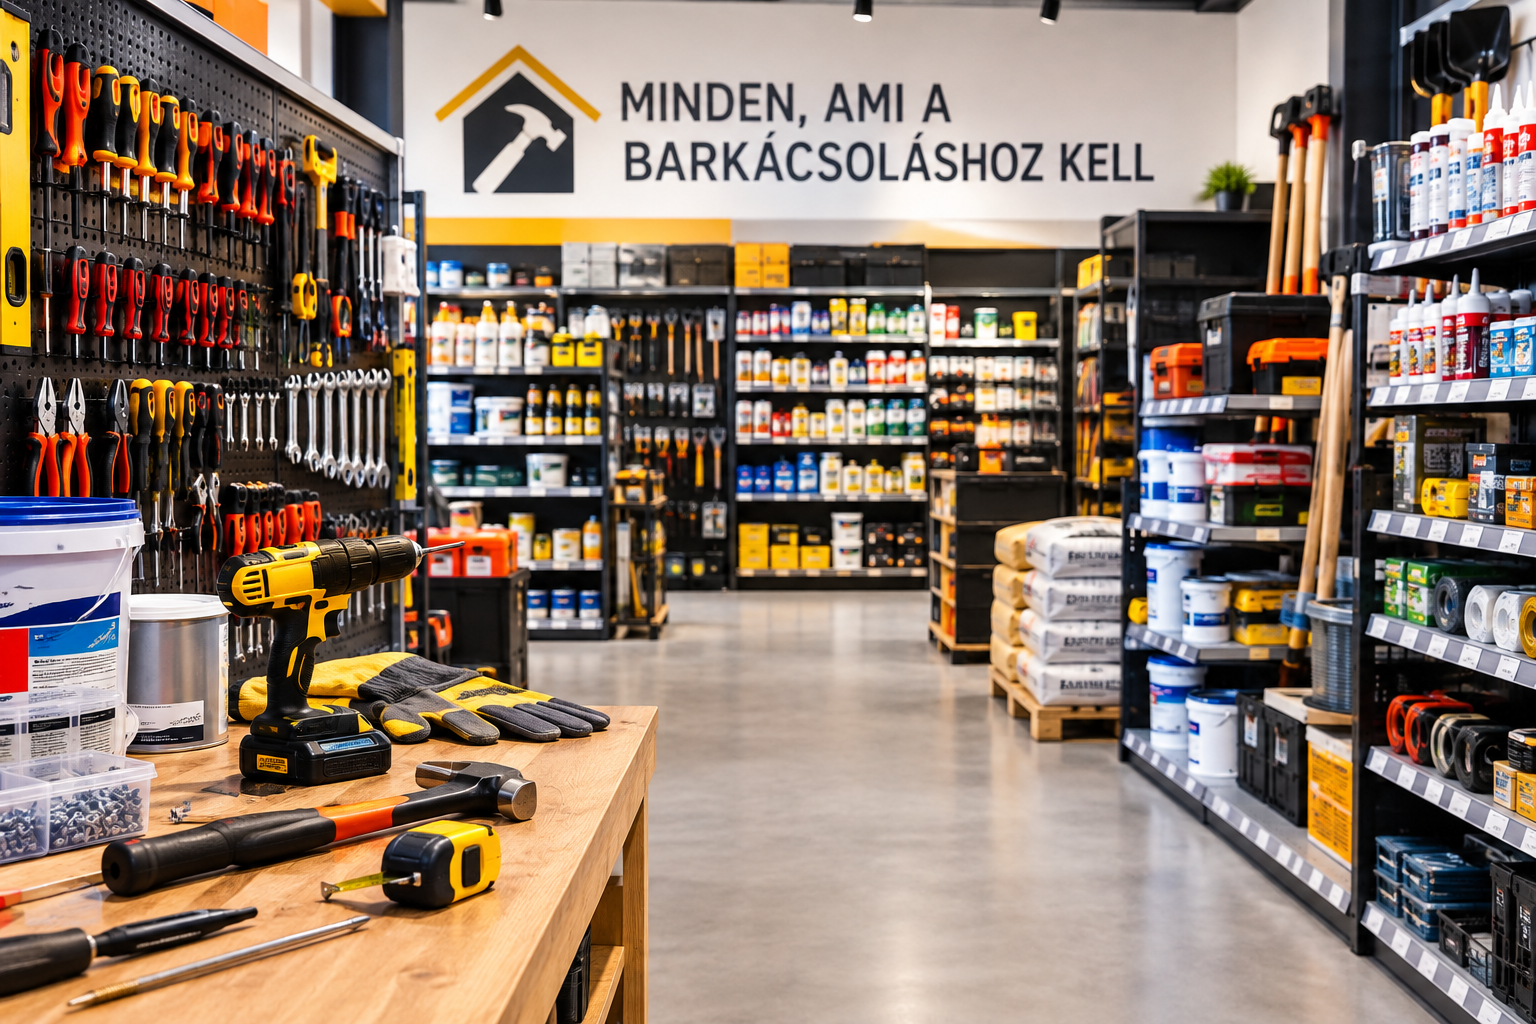
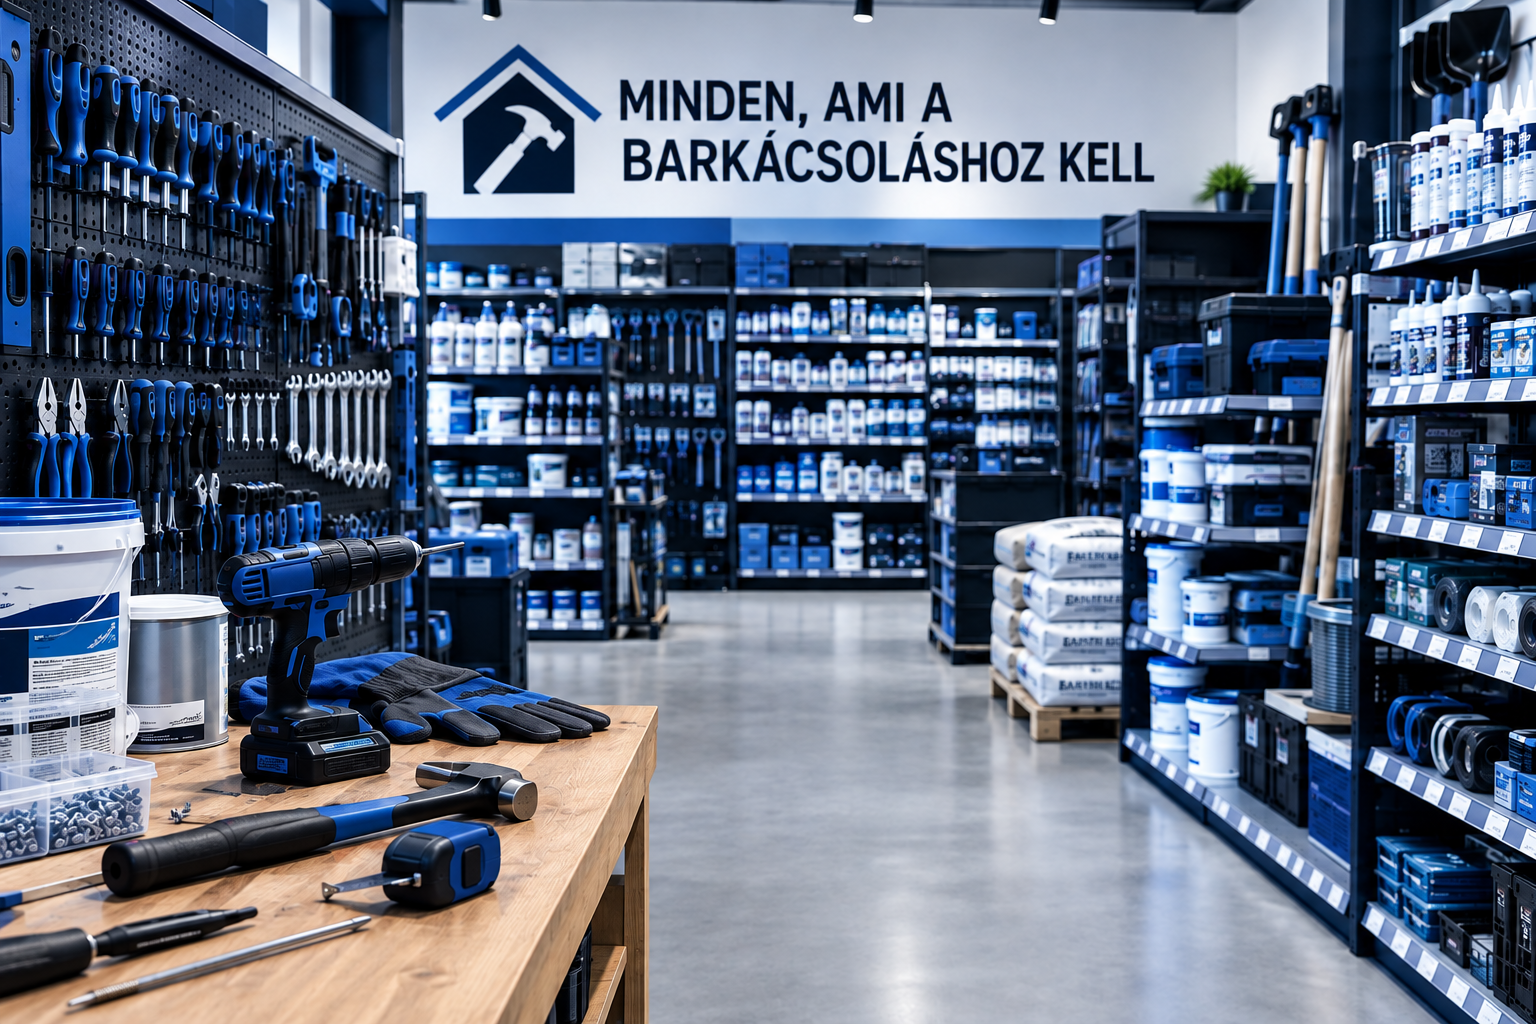
1.2
termekek oldalon valami szar a js kerdezd meg Vencelt

diff --git a/Web/Vorai mini project 09.21/termekek.html b/Web/Vorai mini project 09.21/termekek.html
@@ -4,25 +4,121 @@
   <meta charset="utf-8" />
   <meta name="viewport" content="width=device-width,initial-scale=1" />
   <link rel="stylesheet" href="style.css">
-  <title>Accordion</title>
+  <title>termekek</title>
  
 </head>
 <body>
-  <h2>Accordion</h2>
+
+<nav>
+        <button class="menu-btn" onclick="toggleMenu()">Menu</button>
+
+        <div class="menu" id="menu" class="story-script-regular">
+            <a href="index.html">Vissza</a>
+        </div>
+    </nav>
+
+  <h2>Termekek</h2>
   <div class="acc" id="acc">
     <div class="item">
-      <div class="head">aksis furo <span>+</span></div>
+      <div class="head">Aksis furo <span>+</span></div>
       <div class="body"><img src="aksis furo.jpg" alt=""></div>
     </div>
     <div class="item">
-      <div class="head">vizmertek<span>+</span></div>
+      <div class="head">Vizmertek<span>+</span></div>
       <div class="body"><img src="cizmertek.jpg" alt="">.</div>
     </div>
     <div class="item">
-      <div class="head">3. kérdés <span>+</span></div>
-      <div class="body">Harmadik válasz.</div>
+      <div class="head">Csavarhuzo <span>+</span></div>
+      <div class="body"><img src="csavarhuzo keszlet.jpg" alt=""></div>
     </div>
   </div>
+  <div class="acc" id="acc">
+    <div class="item">
+      <div class="head">Csiszolopapir <span>+</span></div>
+      <div class="body"><img src="csiszolopapir.jpg" alt="">.</div>
+    </div>
+    <div class="acc" id="acc">
+    <div class="item">
+      <div class="head">Ecset keszlet <span>+</span></div>
+      <div class="body"><img src="ecstkeszlet.jpg" alt=""></div>
+    </div>
+    <div class="acc" id="acc">
+    <div class="item">
+      <div class="head">Festekek <span>+</span></div>
+      <div class="body"><img src="festekek.jpg" alt=""></div>
+    </div>
+    <div class="acc" id="acc">
+    <div class="item">
+      <div class="head">Festohenger <span>+</span></div>
+      <div class="body"><img src="festohenger.jpg" alt=""></div>
+    </div>
+    <div class="acc" id="acc">
+    <div class="item">
+      <div class="head">Fogo keszlet <span>+</span></div>
+      <div class="body"><img src="fogo keszlet.jpg" alt=""></div>
+    </div>
+    <div class="acc" id="acc">
+    <div class="item">
+      <div class="head">Furesz <span>+</span></div>
+      <div class="body"><img src="furesz.jpg" alt=""></div>
+    </div>
+    <div class="acc" id="acc">
+    <div class="item">
+      <div class="head">Hosszabito <span>+</span></div>
+      <div class="body"><img src="hosszabitio.jpg" alt=""></div>
+    </div>
+    <div class="acc" id="acc">
+    <div class="item">
+      <div class="head">Kalapacs <span>+</span></div>
+      <div class="body"><img src="kalapacs.jpg" alt=""></div>
+    </div>
+    <div class="acc" id="acc">
+    <div class="item">
+      <div class="head">Meroszalag <span>+</span></div>
+      <div class="body"><img src="meroszalag.jpg" alt=""></div>
+    </div>
+    <div class="acc" id="acc">
+    <div class="item">
+      <div class="head">Munkavedelmi kesztu <span>+</span></div>
+      <div class="body"><img src="munkavedelmi kesztyu.jpg" alt=""></div>
+    </div>
+    <div class="acc" id="acc">
+    <div class="item">
+      <div class="head">Pillanat ragaszto <span>+</span></div>
+      <div class="body"><img src="pillanatragaszto.jpg" alt=""></div>
+    </div>
+    <div class="acc" id="acc">
+    <div class="item">
+      <div class="head">Szerszamoslada <span>+</span></div>
+      <div class="body"><img src="szerszamoslada.jpg" alt=""></div>
+    </div>
+    <div class="acc" id="acc">
+    <div class="item">
+      <div class="head">Szigeteloszallag <span>+</span></div>
+      <div class="body"><img src="szigeteloszallag.jpg" alt=""></div>
+    </div>
+    <div class="acc" id="acc">
+    <div class="item">
+      <div class="head">Szilikon <span>+</span></div>
+      <div class="body"><img src="szilikon.jpg" alt=""></div>
+    </div>
+    <div class="acc" id="acc">
+    <div class="item">
+      <div class="head">Tiplik <span>+</span></div>
+      <div class="body"><img src="tiplik.jpg" alt=""></div>
+    </div>
+    <div class="acc" id="acc">
+    <div class="item">
+      <div class="head">Vedoszemuveg <span>+</span></div>
+      <div class="body"><img src="vedoszemueg.jpg" alt=""></div>
+    </div>
+    <div class="acc" id="acc">
+    <div class="item">
+      <div class="head">Villaskulcs <span>+</span></div>
+      <div class="body"><img src="villacskulcs keszlet.jpg" alt=""></div>
+    </div>
+  
+
 
   <script>
     document.getElementById("acc").addEventListener("click", (e) => {
@@ -35,5 +131,11 @@
       item.classList.toggle("open");
     });
   </script>
+
+  <script>
+    function toggleMenu() {
+        document.getElementById("menu").classList.toggle("show");
+    }
+</script>
 </body>
 </html>

diff --git a/Web/Vorai mini project 09.21/style.css b/Web/Vorai mini project 09.21/style.css
@@ -15,7 +15,7 @@ body {
 }
 
 h1 {
-    color: #ff8c00;
+    color: #00e1ff;
     font-size: 4rem;
     padding-top: 70px;
     margin-bottom: 10px;
@@ -32,7 +32,7 @@ h2 {
 }
 
 h3 {
-    color: #ffb347;
+    color: #00e1ff;
     font-size: 1.15rem;
     font-weight: normal;
     margin-bottom: 35px;
@@ -44,7 +44,7 @@ p {
     margin: 0 auto 45px;
     padding: 30px;
     background: #fff;
-    border-left: 6px solid #ff8c00;
+    border-left: 6px solid #00e1ff;
     border-radius: 8px;
     color: #444;
     font-size: 1.05rem;
@@ -56,7 +56,7 @@ body > h2:nth-of-type(2) {
     max-width: 900px;
     margin: 0 auto 20px;
     text-align: left;
-    color: #ff8c00;
+    color: #00e1ff;
 }
 
 ul {
@@ -77,19 +77,19 @@ li {
     font-size: 1rem;
     text-align: left;
     box-shadow: 0 8px 20px rgba(0, 0, 0, 0.2);
-    border-bottom: 4px solid #ff8c00;
+    border-bottom: 4px solid #00e1ff;
     transition: 0.25s ease;
 }
 
 li:hover {
     transform: translateY(-6px);
     box-shadow: 0 14px 30px rgba(0, 0, 0, 0.3);
-    border-bottom-color: #ffb347;
+    border-bottom-color: #00e1ff;
 }
 
 body > h2:nth-of-type(3) {
     margin-top: 20px;
-    color: #ff8c00;
+    color: #00e1ff;
 }
 
 body > h2:nth-of-type(4) {
@@ -104,7 +104,7 @@ body > h3:last-child {
 
 img{
     width: 60%;
-    border-radius: 10px;
+    border-radius: 20px;
 }
 
 @media (max-width: 700px) {
@@ -145,5 +145,68 @@ img{
     .head { padding: 14px; cursor: pointer; background: #fafafa; display:flex; justify-content:space-between; }
     .body { padding: 14px; display: none; }
     .item.open .body { display: block; }
+
+    .story-script-regular {
+
+            font-family: "Story Script", sans-serif;
+            font-weight: 400;
+            font-style: normal;    
+
+        }
+
+        nav {
+
+            background-color: #0b6470;
+            padding: 5px;
+            border-radius: 15px;
+            width: 5%;
+    
+
+        }
+
+        .menu-btn {
+
+            background: #02162d;
+            color: #f9f9fdda;
+            border: none;
+            padding: 10px 16px;
+            font-size: 16px;
+            cursor:pointer;
+            border-radius: 20px;
+            position: relative;
+            
+    
+
+        }
+
+        .menu {
+
+            display: none;
+            margin-top: 10px;
+
+        }
+
+        .menu a {
+
+            display: block;
+            background-color: #02162d;
+            color: rgb(211, 218, 240);
+            text-decoration: none;
+            padding: 10px;
+            margin-bottom: 4px;
+            border-radius: 20px;
+
+        }
+
+        .menu a:hover {
+
+            background-color: #2a3436;
+
+        }
+        .menu.show {
+
+            display: block;
+
+        }
 
 

diff --git a/Web/Vorai mini project 09.21/index.html b/Web/Vorai mini project 09.21/index.html
@@ -3,10 +3,18 @@
 <head>
     <meta charset="UTF-8">
     <meta name="viewport" content="width=device-width, initial-scale=1.0">
-    <title>Document</title>
+    <title>index</title>
     <link rel="stylesheet" href="style.css">
 </head>
 <body>
+
+    <nav>
+        <button class="menu-btn" onclick="toggleMenu()">Menu</button>
+
+        <div class="menu" id="menu" class="story-script-regular">
+            <a href="termekek.html">Termekek</a>
+        </div>
+    </nav>
 
     <h1>BarkácsPajti</h1>
 <h2>Minden, amire szükséged van a barkácsoláshoz</h2>
@@ -35,7 +43,11 @@
 <h2>Boltunk</h2>
 <img src="uzlet.png" alt="">
 
-
+<script>
+    function toggleMenu() {
+        document.getElementById("menu").classList.toggle("show");
+    }
+</script>
 
 
 </body>
